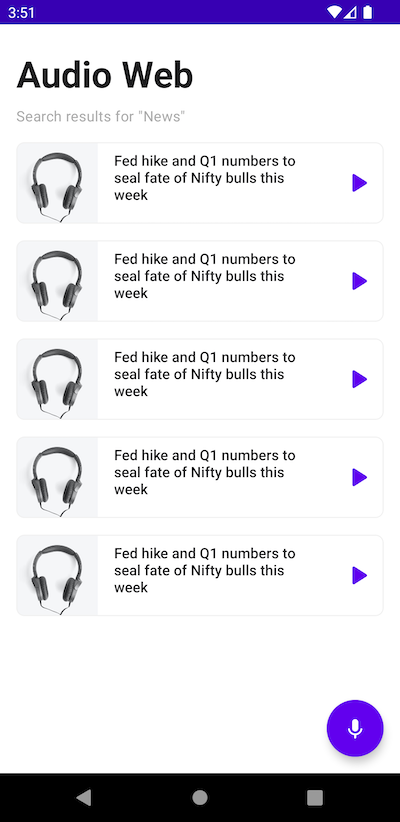
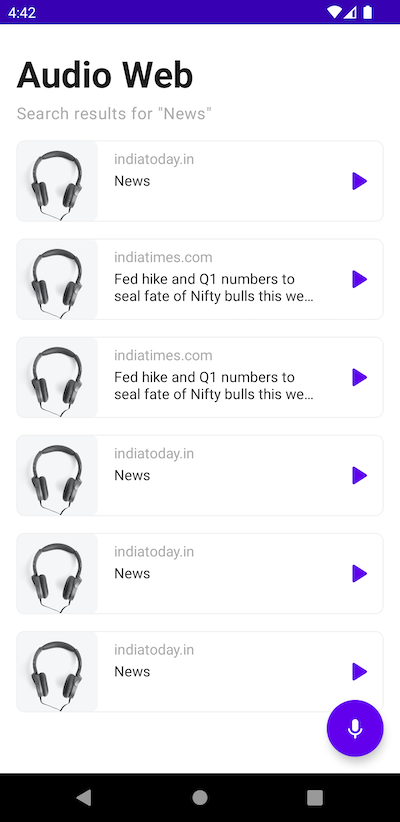
Added source to news

diff --git a/AudioWeb/app/src/main/java/com/singularitycoder/audioweb/MainActivity.kt b/AudioWeb/app/src/main/java/com/singularitycoder/audioweb/MainActivity.kt
@@ -83,10 +83,10 @@ class MainActivity : AppCompatActivity() {
                         putExtra(RecognizerIntent.EXTRA_LANGUAGE, Locale.getDefault())
                         putExtra(RecognizerIntent.EXTRA_PROMPT, "Start Speaking Now!")
                     }
-                    speechToTextResult.launch(intent)
-//                    val url = "https://www.google.com/search?q=news"
-//                    binding.tvSearchResults.text = "Search results for \"News\""
-//                    parseWebPageWithWorker(firstUrl = url)
+//                    speechToTextResult.launch(intent)
+                    val url = "https://www.google.com/search?q=news"
+                    binding.tvSearchResults.text = "Search results for \"News\""
+                    parseWebPageWithWorker(firstUrl = url)
                 }
             }
         }

diff --git a/AudioWeb/app/src/main/java/com/singularitycoder/audioweb/WebPageAdapter.kt b/AudioWeb/app/src/main/java/com/singularitycoder/audioweb/WebPageAdapter.kt
@@ -33,6 +33,11 @@ class WebPageAdapter : RecyclerView.Adapter<RecyclerView.ViewHolder>() {
     ) : RecyclerView.ViewHolder(itemBinding.root) {
         fun setData(webPage: WebPage) {
             itemBinding.apply {
+                if (webPage.pageUrl.contains("https://")) {
+                    tvSource.text = webPage.pageUrl.substringAfterLast("https://").substringAfter(".")
+                } else {
+                    tvSource.text = webPage.pageUrl.substringAfterLast("http://").substringAfter(".")
+                }
                 tvTitle.text = webPage.title
                 ivImage.load(webPage.imageUrl) {
                     placeholder(R.drawable.placeholder)

diff --git a/AudioWeb/app/src/main/java/com/singularitycoder/audioweb/WebPageParsingWorker.kt b/AudioWeb/app/src/main/java/com/singularitycoder/audioweb/WebPageParsingWorker.kt
@@ -82,6 +82,8 @@ class WebPageParsingWorker(val context: Context, workerParams: WorkerParameters)
                             description += ". " + it?.text().toString()
                         }
 
+                        if (description.replace(".", "").isBlank()) return@urlSet1
+
                         dao.insert(
                             WebPage(
                                 imageUrl = imageElementsList2.firstOrNull()?.text().toString(),
